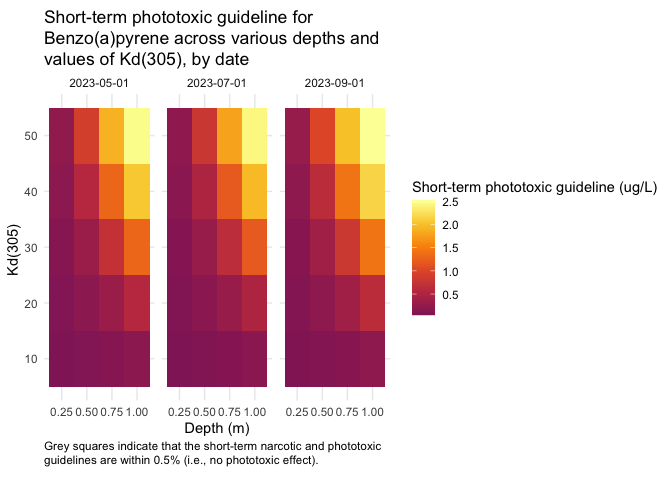
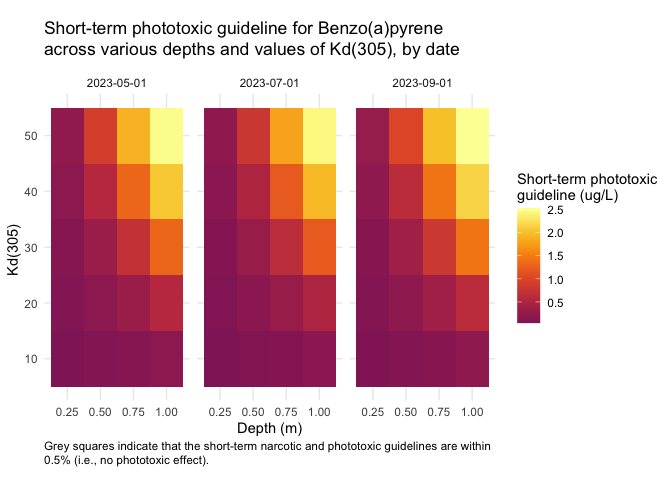
Wrap labels in the interactive sensitivity plot
- `plot_sens_kd_depth()` sets the base size when applying the theme, rather than replacing the theme for interactive plots, which removed the wrapping of the title and caption.
- The legend title is now on two lines in all plots, so it isn't cut off.

diff --git a/NEWS.md b/NEWS.md
@@ -1,6 +1,6 @@
 # pacwq 0.9.0
 
-- `plot_sens_kd_depth()` now uses the short-term guideline names instead of "benchmark" in its title, legend, caption and tooltips, and the typo in the caption is fixed. It now requires the new column names from `sens_kd_depth()`.
+- `plot_sens_kd_depth()` now uses the short-term guideline names instead of "benchmark" in its title, legend, caption and tooltips, and the typo in the caption is fixed. It now requires the new column names from `sens_kd_depth()`. Interactive plots now wrap the title and caption instead of running off the plot, and the legend title is wrapped in all plots.
 - `sens_kd_depth()`: the `narcotic_benchmark` and `phototoxic_benchmark` columns are now `short_term_narcotic_guideline` and `short_term_phototoxic_guideline`, which match the guideline tables. This is a breaking change for code that uses the old names.
 
 # pacwq 0.8.1
